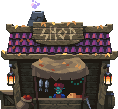
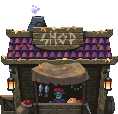
checkpoints + shop

diff --git a/player.py b/player.py
@@ -3,25 +3,30 @@ from dead_screen import DeadScreen
 
 map1 = open("maps/map1.txt").readlines()
 size_x = 50
-width = 1920
+width = 1000
 height = len(map1) * size_x
 size = width, height
 screen = pygame.display.set_mode(size)
+player_v = 10
 
 
 class Player(pygame.sprite.Sprite):
     def __init__(self, pos):
         super().__init__()
-        self.image_idle = pygame.image.load('graphics\\Characters\\Hero\\idle\\idle_asset.png')
-        self.image_idle = pygame.transform.scale(self.image_idle, (100, 600))
-        self.image_idle.set_colorkey((255, 255, 255))
-        self.image_run = pygame.image.load('graphics\\Characters\\Hero\\run\\run_asset.png')
-        self.image_run.set_colorkey((255, 255, 255))
-        self.image_run = pygame.transform.scale(self.image_run, (100, 1000))
-        self.rect = self.image_idle.get_rect(topleft=pos)
+        self.idle_images = []
+        for i in range(6):
+            self.idle_images.append(pygame.image.load(f'graphics\\Characters\\Hero\\idle\\ChikIdle_frame{i}.png'))
+        self.rect = pygame.image.load('graphics\\Characters\\Hero\\idle\\ChikIdle_frame0.png').get_rect(topleft=pos)
+        self.rect[2] = 50
+        self.rect[3] = 100
+        self.run_images = []
+        for i in range(10):
+            self.run_images.append(pygame.image.load(f'graphics\\Characters\\Hero\\run\\ChikRun_frame{i}.png'))
+        self.direction = 1
+        self.platforms = pygame.sprite.Group()
+        self.plat_rects = [platform.rect for platform in self.platforms]
         self.vector = pygame.math.Vector2(0, 0)
-        self.v = 10
-        self.orientation = 'right'
+        self.v = player_v
         # характеристики прыжка
         self.gravity = 2
         self.v_jump = -35
@@ -29,45 +34,43 @@ class Player(pygame.sprite.Sprite):
         self.cur_frame = 0
         self.delay = 0
         self.prev_vector = False
-        self.animate(self.image_idle, 1, 6, self.rect.x, self.rect.y, False)
+        self.status = 'stand'
+        self.effect = pygame.sprite.GroupSingle
+        self.animate(self.idle_images, 6, False)
 
-    def animate(self, sheet, columns, rows, x, y, flip):
-        self.frames = []
-        self.cut_sheet(sheet, columns, rows)
+    def animate(self, sheet, num, flip):
         if self.delay == 3:
-            self.cur_frame = (self.cur_frame + 1) % len(self.frames)
+            self.cur_frame = (self.cur_frame + 1) % num
             self.delay = 0
         else:
             self.delay += 1
-        self.image = self.frames[self.cur_frame]
+        self.image = sheet[self.cur_frame]
+        self.image = pygame.transform.scale(self.image, (50, 100))
         if flip:
             self.image = pygame.transform.flip(self.image, True, False)
         self.image.set_colorkey((255, 255, 255))
-        self.rect = self.rect.move(x, y)
 
-    def cut_sheet(self, sheet, columns, rows):
-        self.rect = pygame.Rect(0, 0, sheet.get_width() // columns,
-                                sheet.get_height() // rows)
-        for j in range(rows):
-            for i in range(columns):
-                frame_location = (self.rect.w * i, self.rect.h * j)
-                self.frames.append(sheet.subsurface(pygame.Rect(
-                    frame_location, self.rect.size)))
-
-    def get_key(self):
+    def move(self):
         keys = pygame.key.get_pressed()
-        if keys[pygame.K_d]:
+        print(self.status)
+        if pygame.sprite.spritecollideany(self, self.platforms):
+            if self.status != 'jump':
+                pass
+            self.status = 'jump'
+        if keys[pygame.K_RIGHT] or keys[pygame.K_d]:
             if not self.vector.x:
                 self.cur_frame = 0
-            self.orientation = 'right'
             self.vector.x = 1
-            self.animate(self.image_run, 1, 10, self.rect.x, self.rect.y, False)
-        elif keys[pygame.K_a]:
+            self.direction = 1
+            if self.status != 'jump':
+                self.animate(self.run_images, 10, False)
+        elif keys[pygame.K_LEFT] or keys[pygame.K_a]:
             if not self.vector.x:
                 self.cur_frame = 0
-            self.orientation = 'left'
             self.vector.x = -1
-            self.animate(self.image_run, 1, 10, self.rect.x, self.rect.y, True)
+            self.direction = 0
+            if self.status != 'jump':
+                self.animate(self.run_images, 10, True)
         else:
             if self.vector.x == -1:
                 self.prev_vector = True
@@ -76,9 +79,12 @@ class Player(pygame.sprite.Sprite):
                 self.prev_vector = False
                 self.cur_frame = 0
             self.vector.x = 0
-            self.animate(self.image_idle, 1, 6, self.rect.x, self.rect.y, self.prev_vector)
-        '''if keys[pygame.K_SPACE]:
-            self.jump()'''
+            if self.status != 'jump':
+                self.animate(self.idle_images, 6, self.prev_vector)
+
+    def attack(self, mob):
+        mob.health -= self.damage
+        print("enemy health:", mob.health)
 
     def with_gravity(self):
         self.vector.y += self.gravity
@@ -87,30 +93,8 @@ class Player(pygame.sprite.Sprite):
     def jump(self):
         self.vector.y = self.v_jump
 
-    def attack(self, mob):
-        mob.health -= self.damage
-        print("enemy health:", mob.health)
-
     def update(self):
-        self.get_key()
-
-
-class PlayerStats:
-    def __init__(self, status, hp, mana, damage):
-        self.status = status
-        self.max_hp = hp
-        self.max_mana = mana
-        self.hp = hp
-        self.mana = mana
-        self.damage = damage
-
-    def get_damage(self, damage):
-        if (self.hp <= damage or self.hp < 1) and self.status != 'death':
-            self.status = 'death'
-            pygame.mixer.Sound('music\\sounds\\death music.mp3').play()
-        elif self.hp > 0:
-            pygame.mixer.Sound('music\\sounds\\hurt_sound.wav').play()
-            self.hp -= damage
+        self.move()
 
 
 class Collision(Player):
@@ -124,9 +108,49 @@ class Collision(Player):
         # self.vector = pygame.math.Vector2(0, 0)
 
     def update(self, player):
-        if player.orientation == 'right':
-            self.rect.x = player.rect.x
-            self.rect.y = player.rect.y
-        else:
+        if not player.direction:
             self.rect.x = player.rect.x + player.rect[2] - self.width
             self.rect.y = player.rect.y
+        else:
+            self.rect.x = player.rect.x
+            self.rect.y = player.rect.y
+
+
+class Effect(Player):
+    def __init__(self, pos):
+        super().__init__(pos)
+        self.cur_frame = 0
+        self.delay = 0
+        self.image = pygame.Surface((100, 100))
+        self.rect = self.image.get_rect(topleft=pos)
+        self.images = []
+
+    def update(self, player):
+        self.rect.x = player.rect.x
+        self.rect.y = player.rect.y
+
+    def animate_effect(self, sheet, num, flip):
+        self.images = [pygame.image.load(f'{sheet}_frame{i}.png') for i in range(num)]
+        self.cur_frame = (self.cur_frame + 1) % num
+        self.image = self.images[self.cur_frame]
+        self.image = pygame.transform.scale(self.image, (50, 100))
+        if flip:
+            self.image = pygame.transform.flip(self.image, True, False)
+        self.image.set_colorkey((255, 255, 255))
+
+
+class PlayerStats:
+    def __init__(self, status, hp, mana,  damage):
+        self.status = status
+        self.max_hp = hp
+        self.max_mana = mana
+        self.hp = hp
+        self.mana = mana
+        self.damage = damage
+
+    def get_damage(self, damage):
+        if (self.hp <= damage or self.hp < 1) and self.status != 'death':
+            self.status = 'death'
+            pygame.mixer.Sound('music\\sounds\\death music.mp3').play()
+        elif self.hp > 0:
+            self.hp -= damage

diff --git a/level.py b/level.py
@@ -1,5 +1,5 @@
 import pygame
-from player import Player, Collision, PlayerStats
+from player import Player, Collision, PlayerStats, Effect
 from mob import Mob
 from boss import Boss
 from shop import Shop
@@ -109,6 +109,7 @@ class Level:
         self.moneys = pygame.sprite.Group()
         self.player = pygame.sprite.GroupSingle()
         self.collision = pygame.sprite.GroupSingle()
+        self.effect = pygame.sprite.GroupSingle()
         self.mobs = pygame.sprite.Group()
         self.boss = pygame.sprite.GroupSingle()
         self.shops = pygame.sprite.Group()
@@ -125,6 +126,9 @@ class Level:
                     self.player.add(player)
                     collision = Collision((size_x * ind_c, size_x * ind_r), self.player.sprite)
                     self.collision.add(collision)
+                    effect = Effect((size_x * ind_c, size_x * ind_r))
+                    self.effect.add(effect)
+                    self.player.effect = self.effect
                 elif c == "M":
                     money = Money((size_x * ind_c, size_x * ind_r))
                     self.moneys.add(money)
@@ -273,14 +277,15 @@ class Level:
 
     def check_enemy(self):
         for mob in self.mobs:
-            if mob.x_pos + 60 < mob.step_counter:
-                mob.v = -3
-                mob.image = pygame.transform.flip(mob.image, True, False)
-            if mob.x_pos - 60 >= mob.step_counter:
-                mob.v = 3
-                mob.image = pygame.transform.flip(mob.image, True, False)
-            mob.rect.x += mob.v
-            mob.step_counter += mob.v
+            if not pygame.sprite.collide_rect(mob, self.collision.sprite):
+                if mob.x_pos + 60 <= mob.step_counter:
+                    mob.v = -3
+                    mob.image = pygame.transform.flip(mob.image, True, False)
+                if mob.x_pos - 60 >= mob.step_counter:
+                    mob.v = 3
+                    mob.image = pygame.transform.flip(mob.image, True, False)
+                mob.rect.x += mob.v
+                mob.step_counter += mob.v
 
     def run(self):
         # 1 слой - камера, тайлы
@@ -308,8 +313,18 @@ class Level:
         self.player.update()
         self.player.draw(self.screen)
         self.collision.update(self.player.sprite)
+        self.effect.update(self.player.sprite)
         self.vertical()
         self.horizontal()
+        if self.player.sprite.status == 'attack':
+            if not self.player.sprite.direction:
+                self.effect.sprite.animate_effect('graphics\\effects\\attack effects\\SFX301', 5, False)
+            else:
+                self.effect.sprite.animate_effect('graphics\\effects\\attack effects\\SFX301', 5, True)
+            self.effect.draw(self.screen)
+            if self.effect.sprite.cur_frame == 4:
+                self.player.sprite.status = 'stand'
+
         # 5 слой - функции
         self.shop_collision()
         self.get_money()

diff --git a/checkpoint.py b/checkpoint.py
@@ -8,8 +8,9 @@ checkpoints = {(600, 450): '1',
 class CheckPoint(pygame.sprite.Sprite):
     def __init__(self, pos, screen):
         super().__init__()
-        self.image = pygame.image.load('graphics\\checkpoint\\frame-01.png')
-        self.image = pygame.transform.scale(self.image, (100, 290))
+        self.delay = 0
+        self.cur_frame = 0
+        self.image = pygame.Surface((100, 290))
         self.rect = self.image.get_rect(topleft=pos)
         self.pos = pos
         self.vector = pygame.math.Vector2(0, 0)
@@ -19,6 +20,7 @@ class CheckPoint(pygame.sprite.Sprite):
         self.active_point = open(self.active_file).read()
         self.points_list = open(self.list_file).read()
         self.points_display = PointsDisplay(screen)
+        self.images = [pygame.image.load(f'graphics\\checkpoint\\frame-{i + 1}.png') for i in range(13)]
 
     def set_point(self):
         with open("system files/active_checkpoint", "wt", encoding="utf8") as to_active_point, open(
@@ -43,4 +45,17 @@ class CheckPoint(pygame.sprite.Sprite):
         return True
 
     def update(self, shift):
+        self.animate(self.images, 13, False)
         self.rect.x += shift
+
+    def animate(self, sheet, num, flip):
+        if self.delay == 2:
+            self.cur_frame = (self.cur_frame + 1) % num
+            self.delay = 0
+        else:
+            self.delay += 1
+        self.image = sheet[self.cur_frame]
+        self.image = pygame.transform.scale(self.image, (100, 290))
+        if flip:
+            self.image = pygame.transform.flip(self.image, True, False)
+        self.image.set_colorkey((255, 255, 255))

diff --git a/project.py b/project.py
@@ -152,6 +152,11 @@ while running:
             if player_stats.status == 'game':
                 if event.button == 1:
                     level.enemy_hurt()
+        if event.type == pygame.KEYDOWN and event.key == pygame.K_b:
+            level.player.sprite.status = 'attack'
+            level.enemy_hurt()
+        if event.type == pygame.KEYDOWN and (event.key == pygame.K_UP or event.key == pygame.K_SPACE or event.key == pygame.K_w):
+            level.jump_check()
         if event.type == pygame.KEYDOWN:
             if player_stats.status == 'game':
                 if event.key == pygame.K_ESCAPE:

diff --git a/NPC.py b/NPC.py
@@ -22,7 +22,7 @@ class NPC(pygame.sprite.Sprite):
         self.rect.x += shift
 
     def animate_npc(self, sheet, num, flip, size):
-        if self.delay == 3:
+        if self.delay == 2:
             self.cur_frame = (self.cur_frame + 1) % num
             self.delay = 0
         else:
